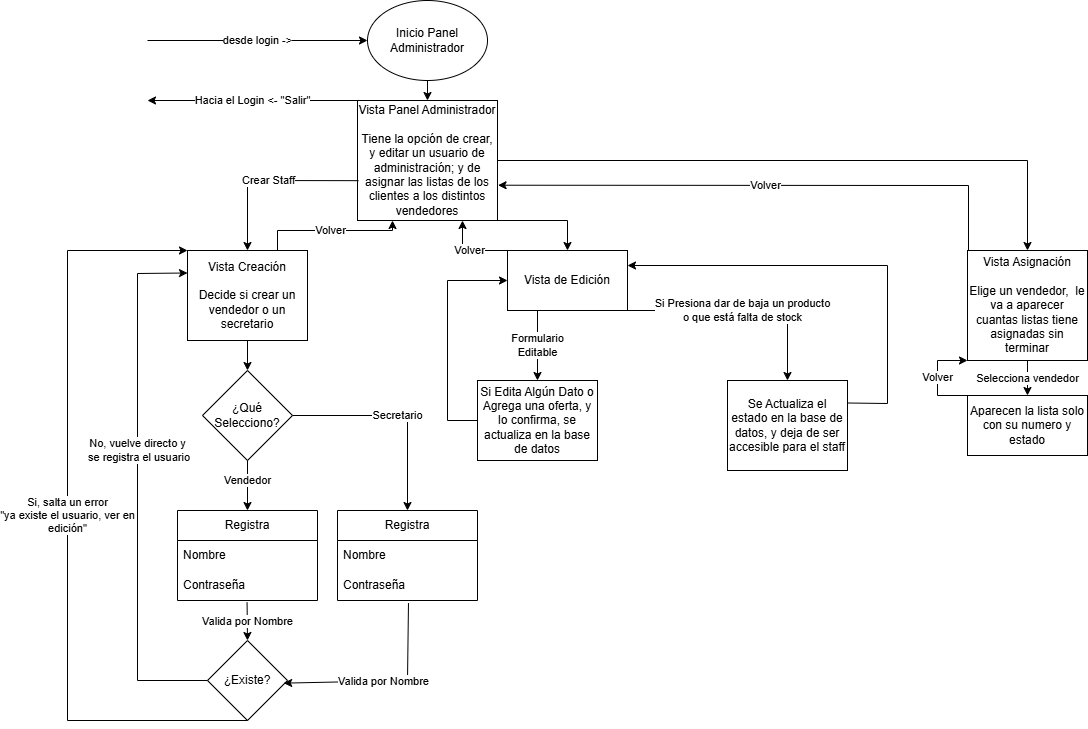
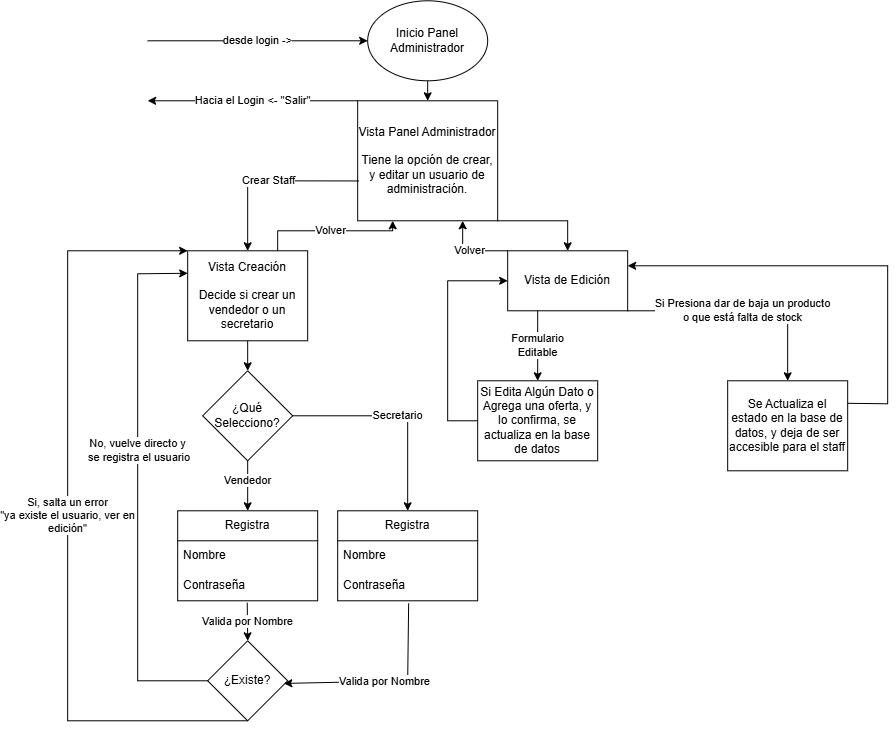
corrección diagramas y md

diff --git a/Docs/CasosDeUso.md b/Docs/CasosDeUso.md
@@ -26,6 +26,7 @@
 * Como **Vendedor**, quiero ingresar al panel de gestión con mis credenciales asignadas, para acceder a la administración de pedidos.
 * Como **Vendedor**, quiero poder modificar el estado de las listas (Pendiente, En Proceso, Finalizada), para mantener organizada la atención a los clientes.
 * Como **Vendedor**, quiero acceder al detalle de cada lista, para conocer los productos solicitados y los datos de contacto (CUIL, Teléfono) del cliente.
+* Como **Vendedor**, quiero que mientras esté trabajando sobre una lista, otro vendedor no pueda acceder al mismo tiempo a esta, para evitar superposición de trabajo.
 
 ---
 
@@ -40,5 +41,4 @@
 ## 4. Actor: Administrador (Administrador)
 
 * Como **Administrador**, quiero ingresar al panel de control total, para supervisar el funcionamiento integral del sistema.
-* Como **Administrador**, quiero poder asignar las listas a los distintos vendedores, para evitar conflictos sobre quien maneja cada cliente.
 * Como **Administrador**, quiero poder crear, editar o dar de baja cuentas de Staff (Vendedores y Personal de Secretaría), para gestionar el equipo de trabajo del local.